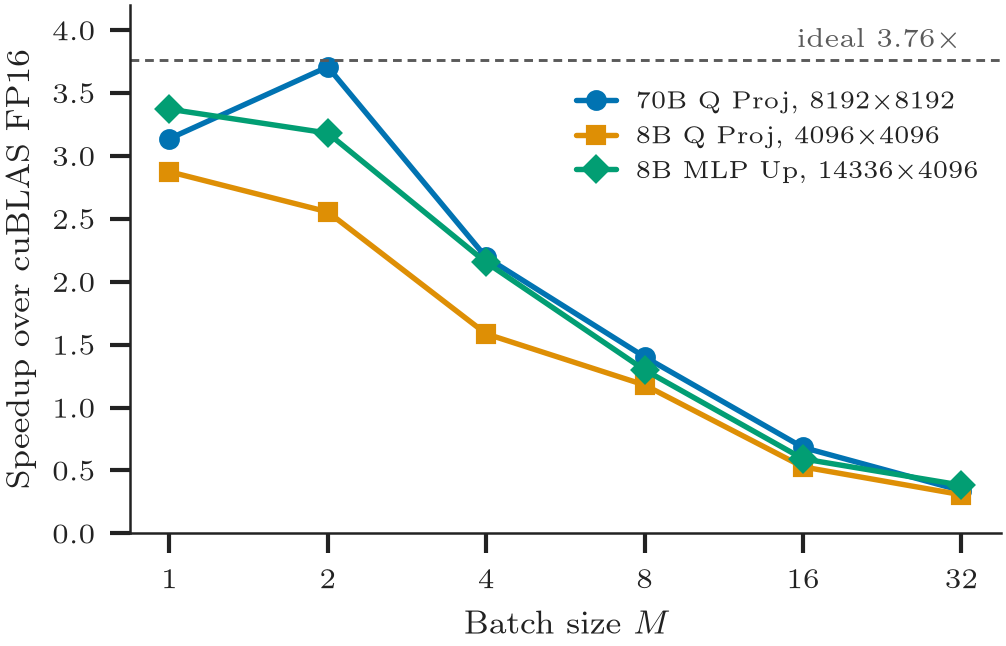
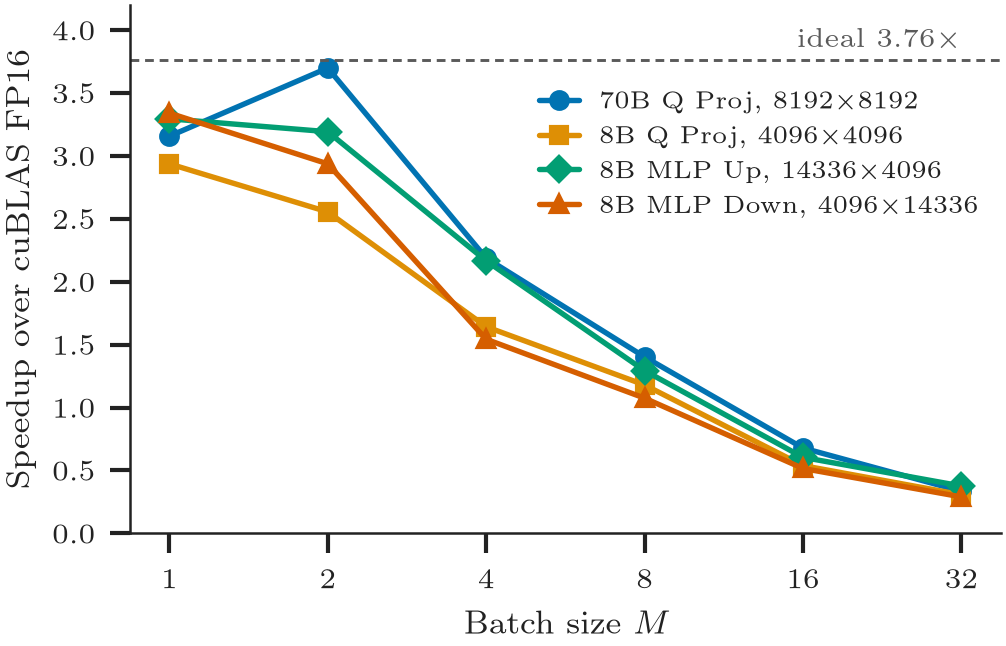
feat: add Llama-3-8B MLP down proj layer

diff --git a/bench/plot.py b/bench/plot.py
@@ -26,24 +26,26 @@ TIMES = r"$\times$"
 MICRO = r"$\mu$"
 
 # seaborn's colorblind palette (passes a CVD check); gray for the cuBLAS baseline
-BLUE, ORANGE, GREEN = "#0173b2", "#de8f05", "#029e73"
+BLUE, ORANGE, GREEN, RED = "#0173b2", "#de8f05", "#029e73", "#d55e00"
 GRAY = "#8c8c8c"
 INK, INK_2 = "#222222", "#5a5a5a"
 DASHED = (0, (3, 2))
 
 KERNELS = ["cublas_fp16", "naive", "coalesced", "vectorized"]
 KERNEL_COLORS = {"cublas_fp16": GRAY, "naive": BLUE, "coalesced": ORANGE, "vectorized": GREEN}
-SHAPES = ["llama3_70b_q", "llama3_8b_q", "llama3_8b_up"]
-SHAPE_COLORS = [BLUE, ORANGE, GREEN]
+SHAPES = ["llama3_70b_q", "llama3_8b_q", "llama3_8b_up", "llama3_8b_down"]
+SHAPE_COLORS = [BLUE, ORANGE, GREEN, RED]
 LAYER_NAMES = {
     "llama3_70b_q": "70B Q Proj",  # Llama-3-70B; the captions say so
     "llama3_8b_q": "8B Q Proj",
     "llama3_8b_up": "8B MLP Up",
+    "llama3_8b_down": "8B MLP Down",
 }
 LAYER_SIZES = {
     "llama3_70b_q": (8192, 8192),
     "llama3_8b_q": (4096, 4096),
     "llama3_8b_up": (14336, 4096),
+    "llama3_8b_down": (4096, 14336),
 }
 BATCHES = [1, 2, 4, 8, 16, 32]
 
@@ -134,7 +136,7 @@ def bars(ax, labels, values, colors):
 
 def kernel_panels(rows, column: str, ylabel: str, name: str, roof: float | None = None):
     """One panel per layer, one bar per kernel at batch 1, kernels named in a shared legend."""
-    fig, axes = plt.subplots(1, 3, figsize=DOUBLE, layout="constrained")
+    fig, axes = plt.subplots(1, len(SHAPES), figsize=DOUBLE, layout="constrained")
     for ax, shape in zip(axes, SHAPES, strict=True):
         values = [float(lookup(rows, shape=shape, m=1, kernel=k)[column]) for k in KERNELS]
         bars(ax, None, values, [KERNEL_COLORS[k] for k in KERNELS])
@@ -188,11 +190,11 @@ def plot_speedup(rows):
         if kernel == "vectorized":
             for x, y in zip(xs, ys, strict=True):
                 ax.text(x, y, f"{y:.1f}{TIMES}", ha="center", va="bottom", fontsize=6.5)
-    ideal_line(ax, 2.5, 0.05)
+    ideal_line(ax, len(SHAPES) - 0.5, 0.05)
     ax.set_xticks(range(len(SHAPES)), [LAYER_NAMES[s] for s in SHAPES])
     ax.tick_params(axis="x", length=0)
     ax.set_ylabel("Speedup over cuBLAS FP16")
-    ax.set_xlim(-0.55, 2.55)
+    ax.set_xlim(-0.55, len(SHAPES) - 0.45)
     ax.set_ylim(0, 4.6)
     ax.legend(loc="upper left", ncol=3, handlelength=1.2, columnspacing=0.8)
     save(fig, "speedup.png")
@@ -201,7 +203,7 @@ def plot_speedup(rows):
 def plot_batch(rows):
     """Speedup of vectorized over cuBLAS FP16 as the batch grows."""
     fig, ax = plt.subplots(figsize=SINGLE, layout="constrained")
-    for shape, color, marker in zip(SHAPES, SHAPE_COLORS, "osD", strict=True):
+    for shape, color, marker in zip(SHAPES, SHAPE_COLORS, "osD^", strict=True):
         ys = [
             float(lookup(rows, shape=shape, m=m, kernel="vectorized")["speedup_vs_cublas"])
             for m in BATCHES
@@ -336,7 +338,7 @@ def plot_profile(rows):
 def plot_ceiling(rows):
     """vectorized against its own loads alone and torch's FP32 sum over the same bytes."""
     names = {"sum": "torch sum", "load_only": "loads only", "vectorized": "vectorized"}
-    fig, axes = plt.subplots(1, 3, figsize=DOUBLE, sharey=True, layout="constrained")
+    fig, axes = plt.subplots(1, len(SHAPES), figsize=DOUBLE, sharey=True, layout="constrained")
     for ax, shape in zip(axes, SHAPES, strict=True):
         pcts = [float(lookup(rows, shape=shape, kernel=k)["pct_peak"]) for k in names]
         bars(ax, list(names.values()), pcts, [GRAY, GRAY, GREEN])
@@ -362,7 +364,7 @@ def plot_block_sweep(rows):
     )
     for ax, m in zip(axes[0], batches, strict=True):
         panel = [r for r in rows if int(r.get("m", 1)) == m]
-        for rpw, color, marker in zip(["1", "2", "4"], SHAPE_COLORS, "osD", strict=True):
+        for rpw, color, marker in zip(["1", "2", "4"], SHAPE_COLORS[:3], "osD", strict=True):
             pts = sorted(
                 (int(r["threads_per_block"]), float(r["pct_peak"]))
                 for r in panel

diff --git a/bench/layers.py b/bench/layers.py
@@ -21,6 +21,7 @@ LAYERS = {
     "llama3_70b_q": (LLAMA3_70B, "model.layers.40.self_attn.q_proj.weight"),  # 8192 x 8192
     "llama3_8b_q": (LLAMA3_8B, "model.layers.16.self_attn.q_proj.weight"),  # 4096 x 4096
     "llama3_8b_up": (LLAMA3_8B, "model.layers.16.mlp.up_proj.weight"),  # 14336 x 4096
+    "llama3_8b_down": (LLAMA3_8B, "model.layers.16.mlp.down_proj.weight"),  # 4096 x 14336, long K
 }
 
 CACHE = Path(__file__).resolve().parents[1] / "data"

diff --git a/README.md b/README.md
@@ -1,6 +1,6 @@
 INT4 GEMV Kernels in CUDA
 =======================
-CUDA kernels for W4A16 GEMV (4-bit weights, FP16 activations), compared with FP16 cuBLAS on an RTX 3090. The weights stay packed in memory and are unpacked in registers inside the kernel. At batch 1, our fastest kernel is **2.9–3.4× faster than FP16 cuBLAS** on real Llama-3 weight matrices, close to the 3.76× limit set by the byte savings.
+CUDA kernels for W4A16 GEMV (4-bit weights, FP16 activations), compared with FP16 cuBLAS on an RTX 3090. The weights stay packed in memory and are unpacked in registers inside the kernel. At batch 1, our fastest kernel is **2.9–3.3× faster than FP16 cuBLAS** on real Llama-3 weight matrices, close to the 3.76× limit set by the byte savings.
 
 Kernels
 ------------
@@ -14,15 +14,15 @@ Weights are quantized with plain round-to-nearest to 4 bits, in groups of 128 wi
 
 Results
 ------------
-RTX 3090, default clocks. Weights are real Llama-3 matrices: layer 40 Q projection of Llama-3-70B (70B), and layer 16 Q projection and MLP up projection of Llama-3-8B (8B). Batch 1, time per call:
+RTX 3090, default clocks. Weights are real Llama-3 matrices: layer 40 Q projection of Llama-3-70B (70B), and layer 16 Q projection, MLP up projection and MLP down projection of Llama-3-8B (8B). Batch 1, time per call:
 
-| | 70B Q Proj, 8192 × 8192 | 8B Q Proj, 4096 × 4096 | 8B MLP Up, 14336 × 4096 |
-| --- | --- | --- | --- |
-| cuBLAS FP16 | 164 µs | 47 µs | 149 µs |
-| `naive` | 371 µs | 171 µs | 201 µs |
-| `coalesced` | 93 µs | 30 µs | 79 µs |
-| `vectorized` | **52 µs** | **16 µs** | **44 µs** |
-| speedup over cuBLAS | **3.14×** | **2.88×** | **3.37×** |
+| | 70B Q Proj, 8192 × 8192 | 8B Q Proj, 4096 × 4096 | 8B MLP Up, 14336 × 4096 | 8B MLP Down, 4096 × 14336 |
+| --- | --- | --- | --- | --- |
+| cuBLAS FP16 | 165 µs | 48 µs | 149 µs | 151 µs |
+| `naive` | 400 µs | 170 µs | 200 µs | 538 µs |
+| `coalesced` | 93 µs | 30 µs | 79 µs | 94 µs |
+| `vectorized` | **52 µs** | **16 µs** | **45 µs** | **45 µs** |
+| speedup over cuBLAS | **3.16×** | **2.94×** | **3.30×** | **3.34×** |
 
 <p align="center">
   <img src="./imgs/speedup.png" width="60%">
@@ -63,7 +63,7 @@ Usage
 ```bash
 uv sync
 uv run cmake --preset release && uv run cmake --build --preset release
-uv run python -m bench.sweep          # every kernel and cuBLAS, 3 matrices, M = 1..32
+uv run python -m bench.sweep          # every kernel and cuBLAS, 4 matrices, M = 1..32
 uv run python -m bench.block_sweep    # vectorized: threads per block × rows per warp, M = 1 and 8
 uv run python -m bench.ceiling        # vectorized vs. its loads alone
 uv run python -m bench.profile        # Nsight Compute counters; needs profiler access
